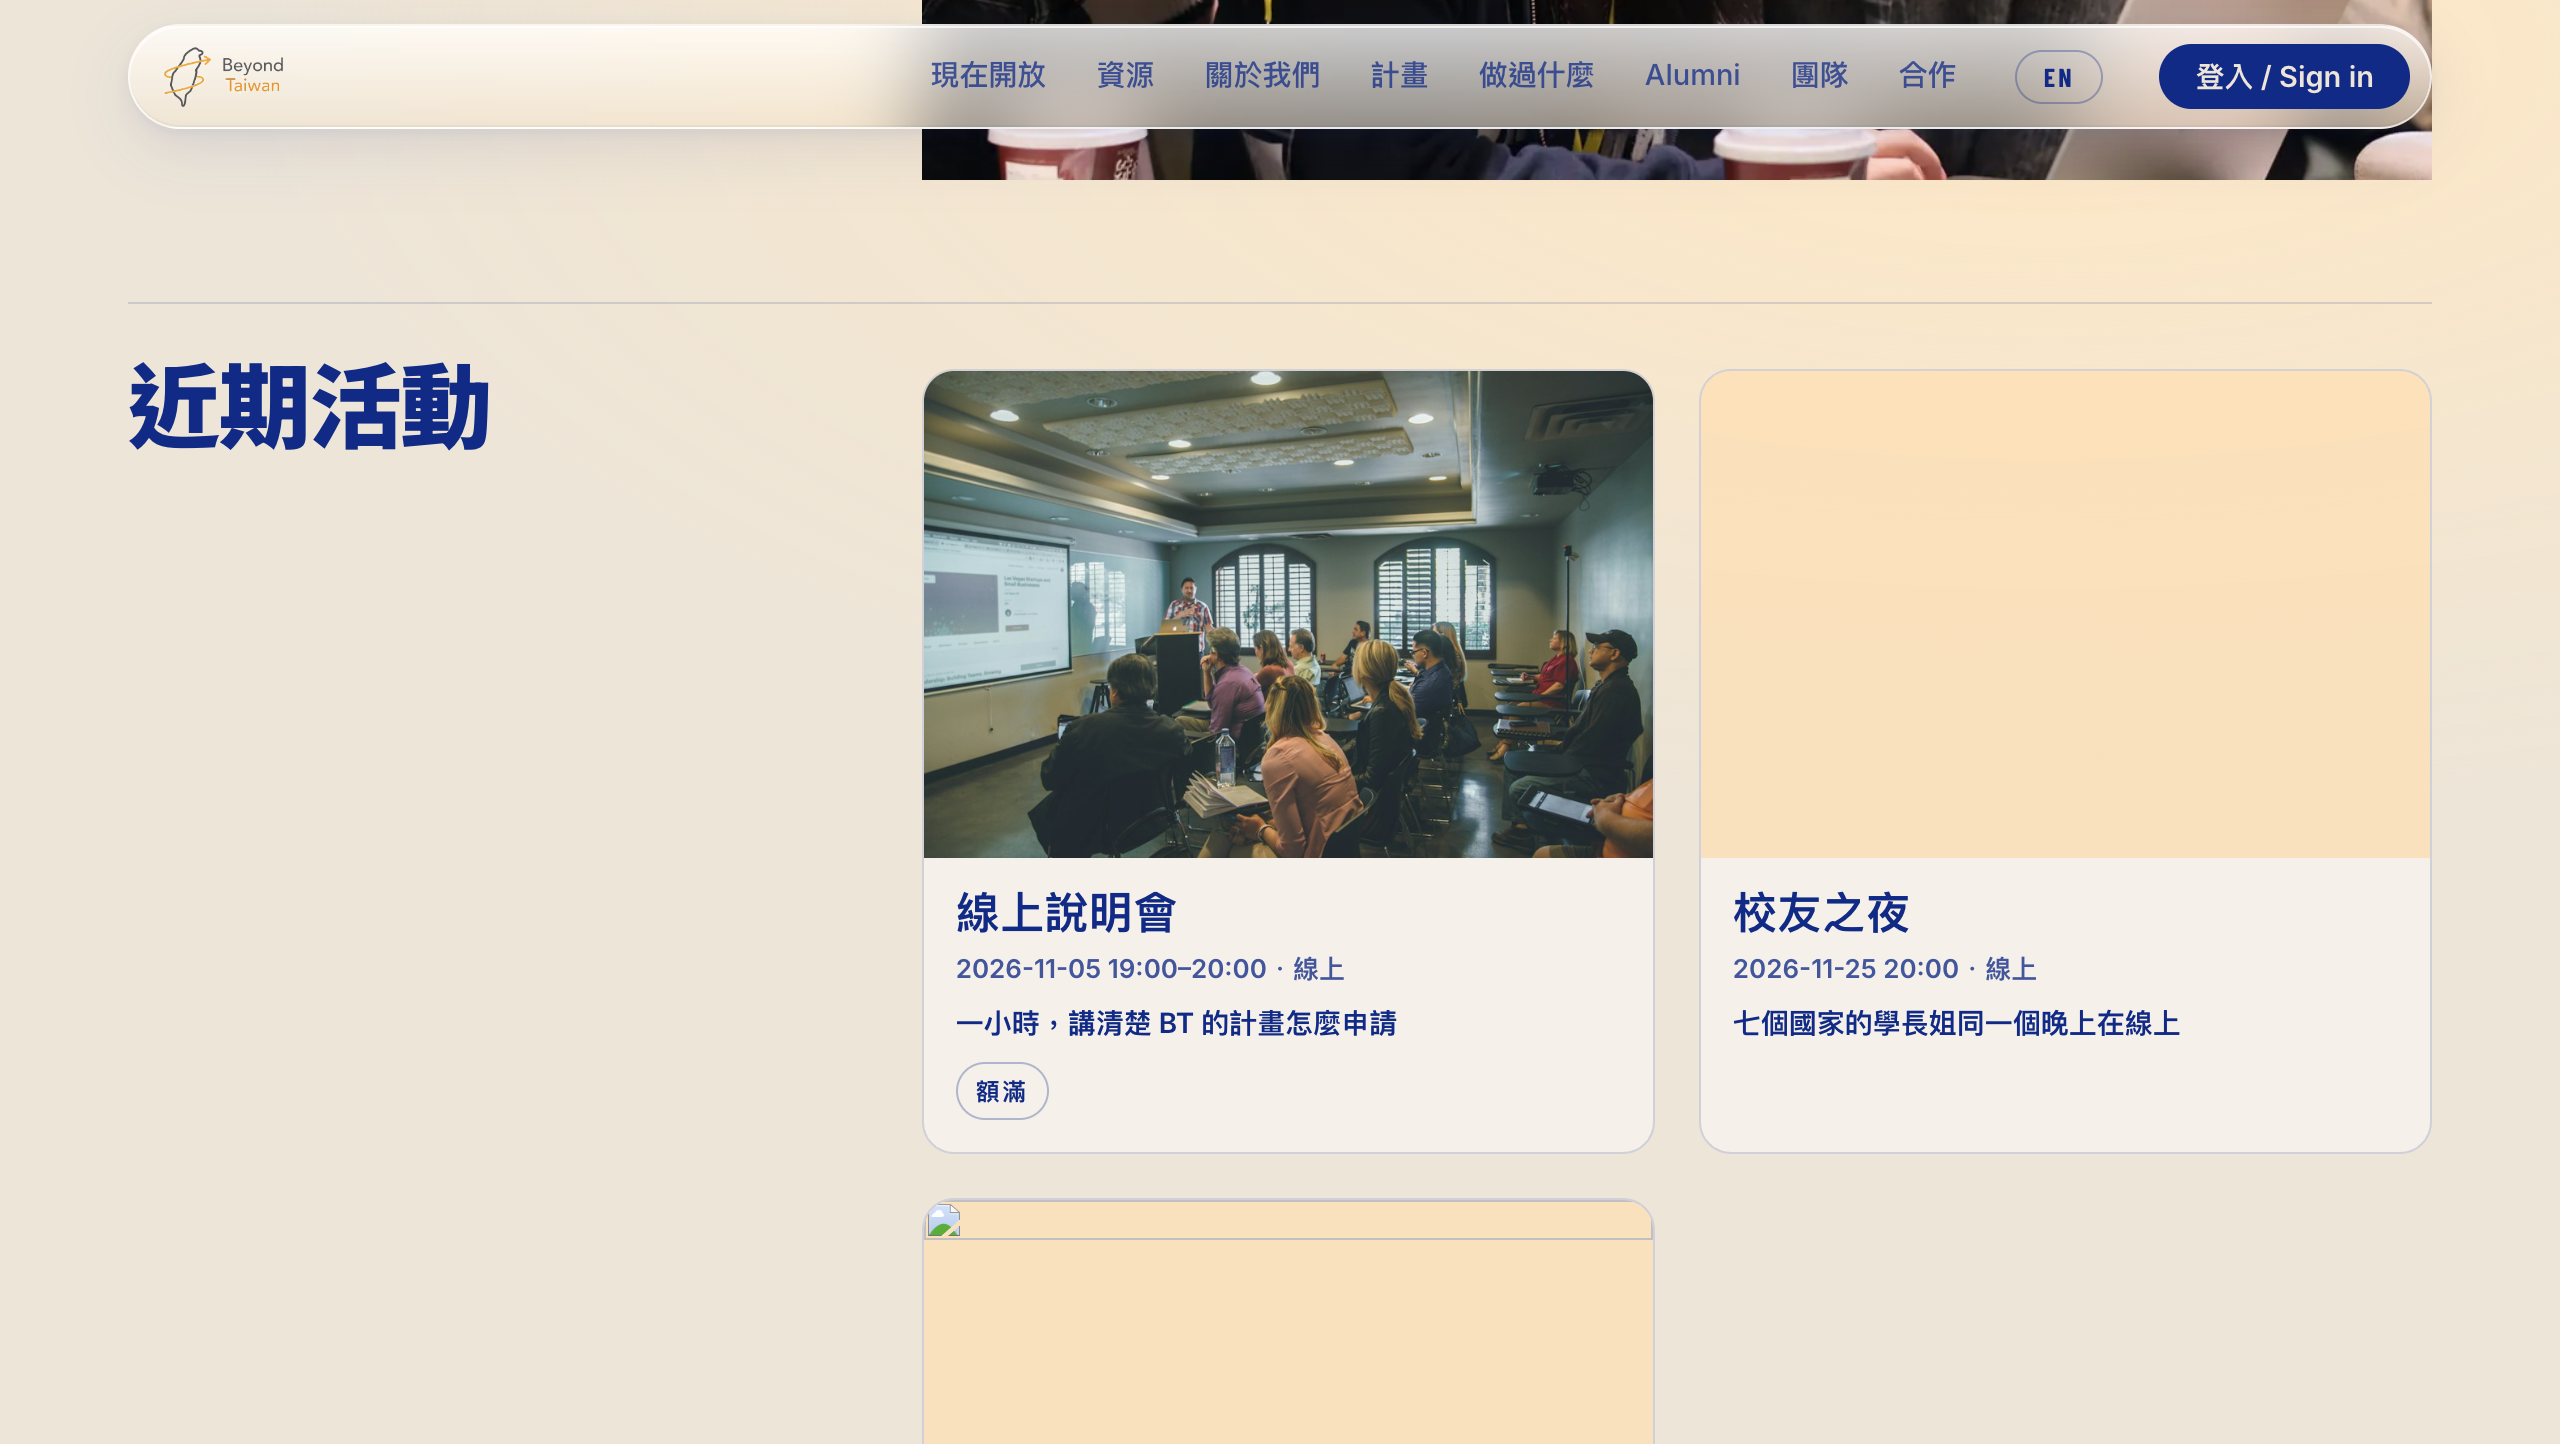
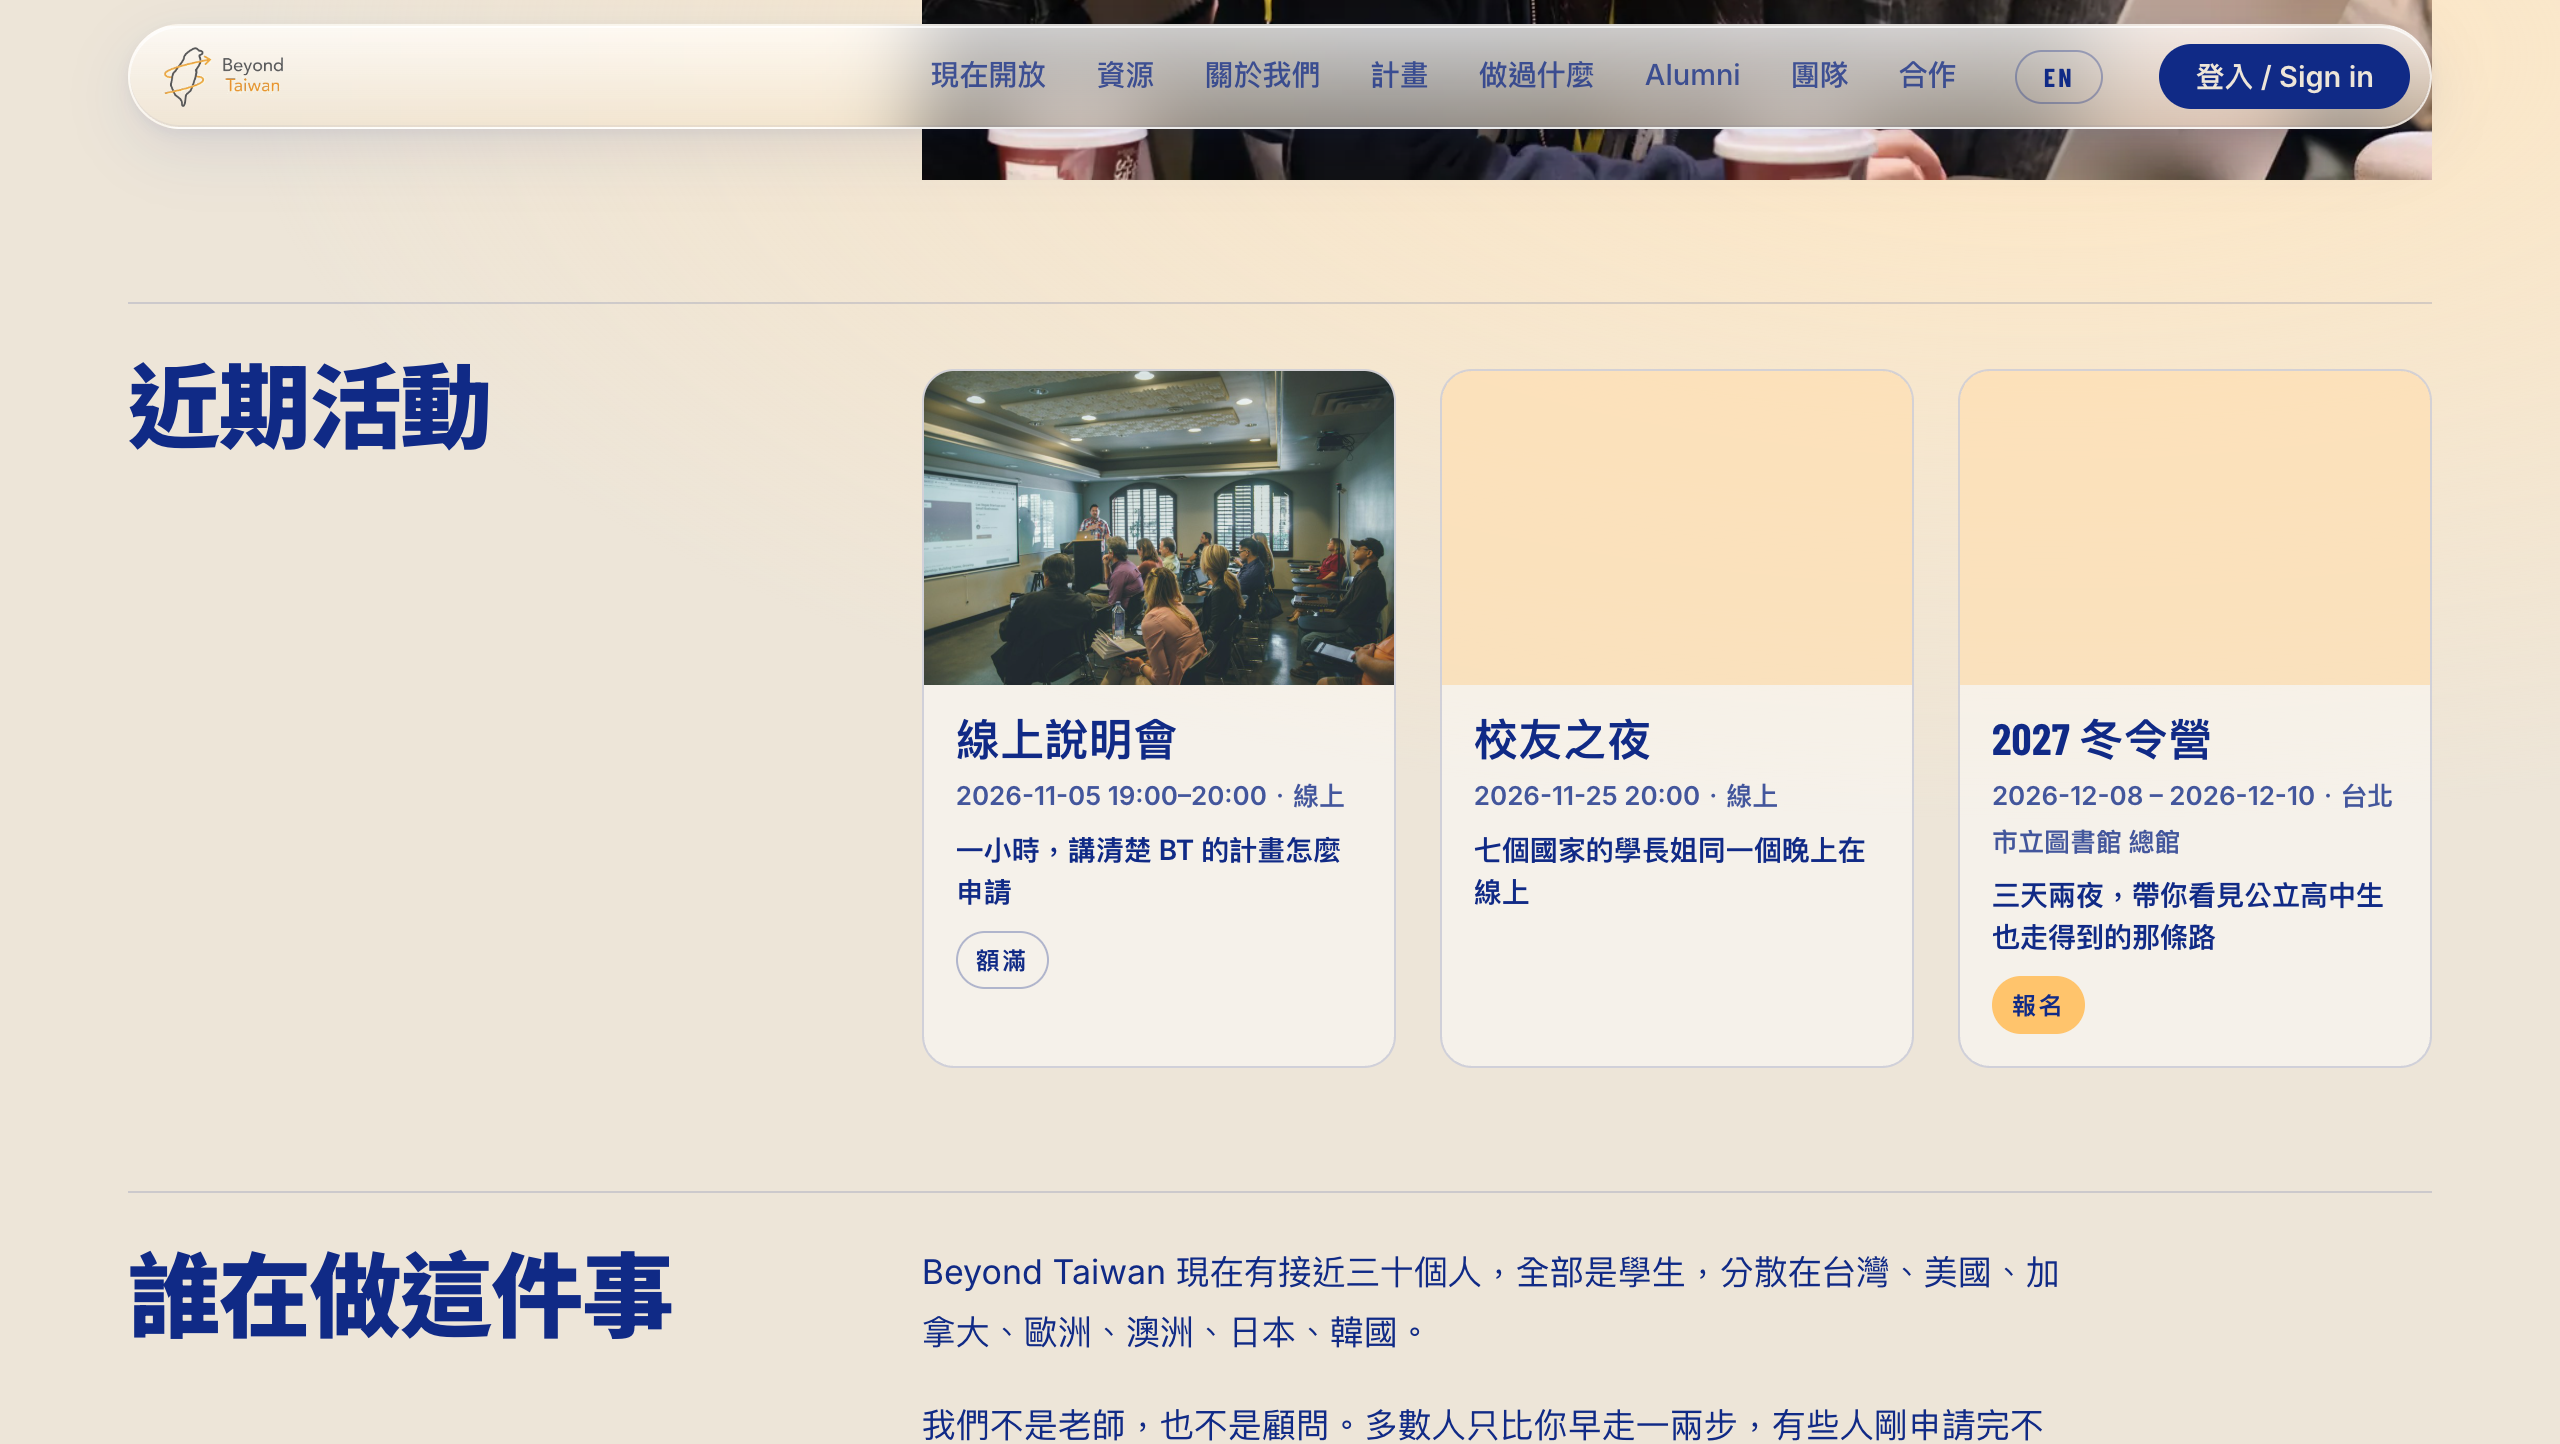
fix(events): 封面壞掉卡片換色塊、一場活動把封面那塊拿掉（onerror）；桌機三張一排、平板兩張、手機一張；後台存檔前擋「這條連結不像一張圖」（evCoverOk）；測試兩條；ev-04、ev-06 重拍（一張故意壞連結）

diff --git a/events/src/ui.js b/events/src/ui.js
@@ -36,11 +36,13 @@ export function split(events) {
     past: list.filter(e => e.is_past && new Date(e.ends_at || e.starts_at) >= yearAgo).sort((a, b) => new Date(b.starts_at) - new Date(a.starts_at)),
   };
 }
+// 封面連結壞掉（team 貼錯、Drive 權限沒開）：卡片換成跟「沒有封面」一樣的色塊，不留破圖的圖示；一場活動的頁把那一塊整個拿掉，不留空位。
+const NOIMG = "this.outerHTML='<span class=&quot;ev-noimg&quot;></span>'";
 export function cardHTML(e, l, base) {
   const s = T[l], st = signupState(e);
   const tag = st === "open" ? `<span class="ev-tag on">${s.signup}</span>` : st === "full" ? `<span class="ev-tag">${s.full}</span>` : st === "ended" ? `<span class="ev-tag">${s.ended}</span>` : "";
   return `<a class="ev-card" href="${esc(base || "")}#${esc(e.slug)}">
-    ${e.cover_url ? `<img src="${esc(e.cover_url)}" alt="" loading="lazy">` : `<span class="ev-noimg"></span>`}
+    ${e.cover_url ? `<img src="${esc(e.cover_url)}" alt="" loading="lazy" onerror="${NOIMG}">` : `<span class="ev-noimg"></span>`}
     <span class="ev-body"><b>${esc(pick(e, "title", l))}</b><span class="ev-when">${esc(fmtWhen(e.starts_at, e.ends_at, l))}${e.place ? `・${esc(e.place)}` : ""}</span>${pick(e, "summary", l) ? `<span class="ev-sum">${esc(pick(e, "summary", l))}</span>` : ""}${tag}</span>
   </a>`;
 }
@@ -55,7 +57,7 @@ export function detailHTML(e, l) {
     ? `<p><a class="cta" href="../apply/?f=${esc(e.form_id)}">${s.signup}</a> <span class="ev-note">${s.cap(e.signed_up, e.capacity)}${l === "zh" ? "。" : ". "}${s.login}</span></p>`
     : `<p class="ev-note"><b>${st === "full" ? s.full : st === "ended" ? s.ended : st === "soon" ? s.opens(fmtWhen(e.signup_opens_at, null, l)) : s.closed}</b>${e.capacity ? `・${s.cap(e.signed_up, e.capacity)}` : ""}</p>`;
   return `<header class="hero ev-hero"><p class="ev-by">${esc(s.by(e.team))}</p><h1>${esc(pick(e, "title", l))}</h1>${pick(e, "summary", l) ? `<p class="lead">${esc(pick(e, "summary", l))}</p>` : ""}</header>
-    ${e.cover_url ? `<section class="sec"><div class="sec-in"><img class="ev-cover" src="${esc(e.cover_url)}" alt=""></div></section>` : ""}
+    ${e.cover_url ? `<section class="sec ev-cover-sec"><div class="sec-in"><img class="ev-cover" src="${esc(e.cover_url)}" alt="" onerror="this.closest('section').remove()"></div></section>` : ""}
     <section class="sec"><div class="sec-in"><div class="body">
       <ul class="rows"><li><b>${s.when}</b><span>${esc(fmtWhen(e.starts_at, e.ends_at, l))}</span></li>${e.place ? `<li><b>${s.place}</b><span>${esc(e.place)}</span></li>` : ""}</ul>
       ${pick(e, "body", l) ? `<div class="ev-text">${esc(pick(e, "body", l)).replace(/\n/g, "<br>")}</div>` : ""}

diff --git a/admin/src/ui.js b/admin/src/ui.js
@@ -1080,6 +1080,15 @@ export function requestsQueueHTML(rows, people, f, sel, canEdit, msg, busy) {
 // 這一頁填的是內容（標題、一句話、說明、封面網址與同意、時間、地點、名額）；報名表的題目走現有的表單編輯頁；
 // 誰在裡面、簽到、行前信都是現有的入口，這裡只放連結。不是頁面編輯器。
 export const EV_STATUS = ["draft", "ready", "published", "archived"];
+// 封面網址像不像一張圖：http(s)，而且副檔名是圖（可以帶 ?query），或是 Drive／Google 圖床／Cloudinary／Unsplash 那幾種看得出是圖的網址。
+// 這只是前端先擋一次，資料庫的 save_event 只收 https。
+export function evCoverOk(url) {
+  const u = String(url || "").trim();
+  if (!u) return true;
+  if (!/^https?:\/\//i.test(u)) return false;
+  if (/\.(jpe?g|png|webp|gif|avif|svg)(\?.*)?$/i.test(u)) return true;
+  return /^https:\/\/(drive\.google\.com\/(uc\?|file\/d\/|thumbnail\?)|lh3\.googleusercontent\.com\/|res\.cloudinary\.com\/|images\.unsplash\.com\/)/i.test(u);
+}
 export function evSlug(s) { return String(s || "").toLowerCase().normalize("NFKD").replace(/[^a-z0-9]+/g, "-").replace(/^-+|-+$/g, "").slice(0, 40); }
 const evDate = d => d ? String(d).slice(0, 16).replace("T", " ") : "";
 // datetime-local 要的格式（本機時間）。

diff --git a/admin/src/main.js b/admin/src/main.js
@@ -311,6 +311,7 @@ document.addEventListener("click", async e => {
   }
   if (act === "ev-save") {
     const patch = readEvent();
+    if (!UI.evCoverOk(patch.cover_url)) { S.msg = T("err.evCover"); render(); return; }
     S.busy = true; S.msg = ""; render();
     try { await D.saveEvent(id, patch); S.busy = false; S.msg = T("msg.evSaved"); await reloadEvents(S.evSel); render(); }
     catch (e) { S.busy = false; S.msg = T("err.evSave") + D.says(e); render(); }
@@ -324,7 +325,11 @@ document.addEventListener("click", async e => {
     S.busy = true; S.msg = ""; render();
     try {
       // 按「準備好了」之前先把表單上的字存一次，不然填了沒存就按會被擋「要填開始時間」。
-      if (act === "ev-ready" && UI.canEditWs(S.me, ev.workspace_id) && document.getElementById("ev-tzh")) await D.saveEvent(id, readEvent());
+      if (act === "ev-ready" && UI.canEditWs(S.me, ev.workspace_id) && document.getElementById("ev-tzh")) {
+        const patch = readEvent();
+        if (!UI.evCoverOk(patch.cover_url)) throw new Error(T("err.evCoverRaw"));
+        await D.saveEvent(id, patch);
+      }
       if (act === "ev-ready") await D.setEventReady(id, true);
       else if (act === "ev-unready") await D.setEventReady(id, false);
       else await D.publishEvent(id, act === "ev-publish");

diff --git a/events/index.html b/events/index.html
@@ -347,7 +347,9 @@ a.btn:not(.ghost):active, a.cta:active, a.login:active{
 summary{cursor:pointer}
 
 /* ───────── 活動卡（2026-11-01）：三欄到手機一欄，封面 3:2，狀態標籤只用品牌色。 ───────── */
-.ev-cards{display:grid;grid-template-columns:repeat(auto-fill,minmax(min(100%,260px),1fr));gap:22px;margin-top:8px}
+.ev-cards{display:grid;grid-template-columns:repeat(3,minmax(0,1fr));gap:22px;margin-top:8px}
+@media (max-width:900px){.ev-cards{grid-template-columns:repeat(2,minmax(0,1fr))}}
+@media (max-width:600px){.ev-cards{grid-template-columns:1fr}}
 .ev-card{display:flex;flex-direction:column;text-decoration:none;color:var(--ink);border:1px solid rgba(16,42,134,.16);border-radius:16px;overflow:hidden;background:rgba(255,255,255,.45)}
 .ev-card:hover{border-color:var(--bt-navy);box-shadow:0 10px 26px rgba(16,42,134,.1)}
 .ev-card img,.ev-noimg{display:block;width:100%;aspect-ratio:3/2;object-fit:cover;background:rgba(255,196,108,.35)}

diff --git a/index.html b/index.html
@@ -523,7 +523,9 @@ a.btn:not(.ghost):active, a.cta:active, a.login:active{
 summary{cursor:pointer}
 
 /* 近期活動的卡（2026-11-01）：跟 /events/ 同一套規則。沒有活動整段 hidden。 */
-.ev-cards{display:grid;grid-template-columns:repeat(auto-fill,minmax(min(100%,260px),1fr));gap:22px;margin-top:8px}
+.ev-cards{display:grid;grid-template-columns:repeat(3,minmax(0,1fr));gap:22px;margin-top:8px}
+@media (max-width:900px){.ev-cards{grid-template-columns:repeat(2,minmax(0,1fr))}}
+@media (max-width:600px){.ev-cards{grid-template-columns:1fr}}
 .ev-card{display:flex;flex-direction:column;text-decoration:none;color:var(--ink);border:1px solid rgba(16,42,134,.16);border-radius:16px;overflow:hidden;background:rgba(255,255,255,.45)}
 .ev-card:hover{border-color:var(--bt-navy);box-shadow:0 10px 26px rgba(16,42,134,.1)}
 .ev-card img,.ev-noimg{display:block;width:100%;aspect-ratio:3/2;object-fit:cover;background:rgba(255,196,108,.35)}

diff --git a/admin/src/strings.js b/admin/src/strings.js
@@ -351,6 +351,8 @@ export const MINE = {
   "err.evCreate":     { zh: "開不了：", en: "Could not create: " },
   "err.evSave":       { zh: "存不起來：", en: "Could not save: " },
   "err.evStatus":     { zh: "改不了狀態：", en: "Could not change status: " },
+  "err.evCover":      { zh: "封面那條連結不像一張圖：要 https 開頭，結尾是 .jpg／.png／.webp，或是 Drive、Cloudinary 的圖片網址。", en: "That cover link doesn't look like an image: it should start with https and end in .jpg/.png/.webp, or be a Drive or Cloudinary image URL." },
+  "err.evCoverRaw":   { zh: "封面那條連結不像一張圖", en: "that cover link doesn't look like an image" },
   // 行銷需求單（2026-10-31）
   "card.rq":          { zh: "Marketing 需求單等處理", en: "Marketing requests waiting" },
   "card.rq.unit":     { zh: "張", en: "" },
